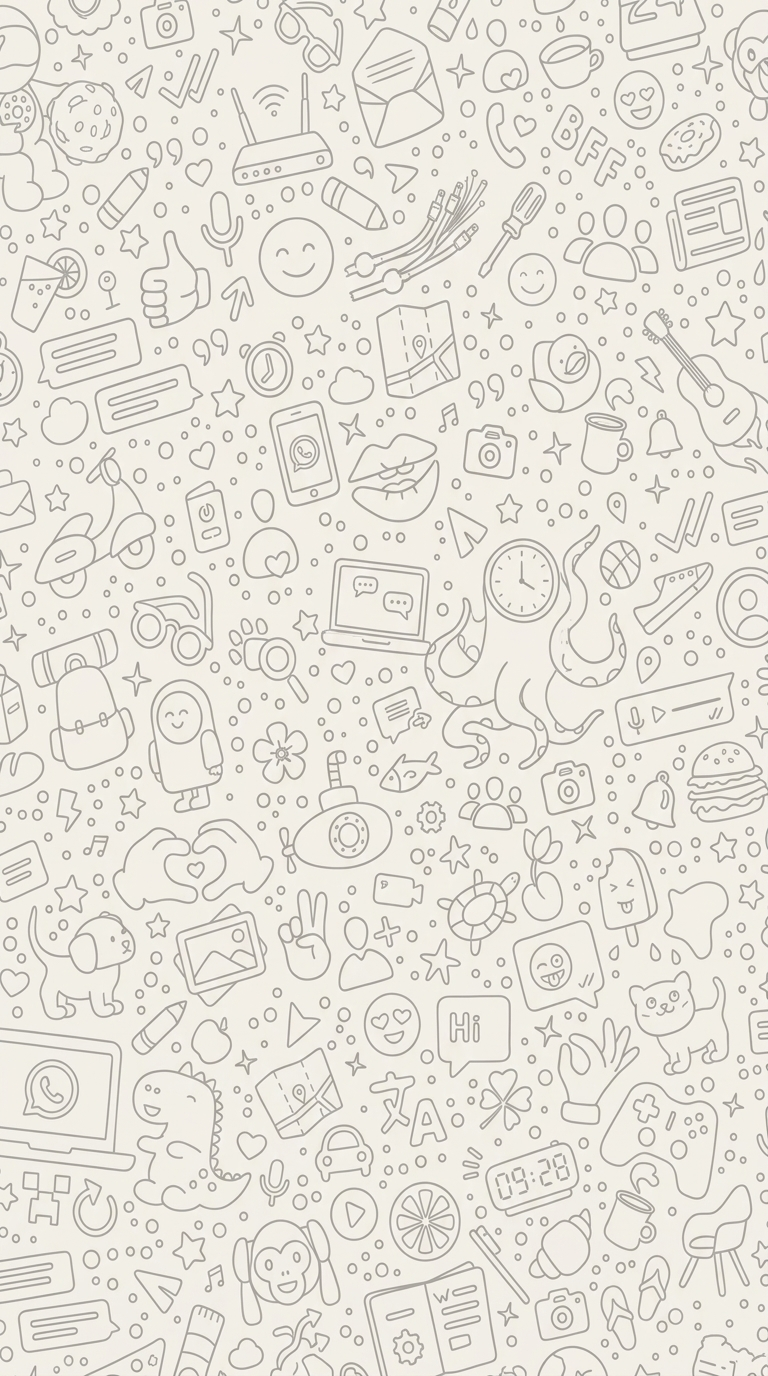
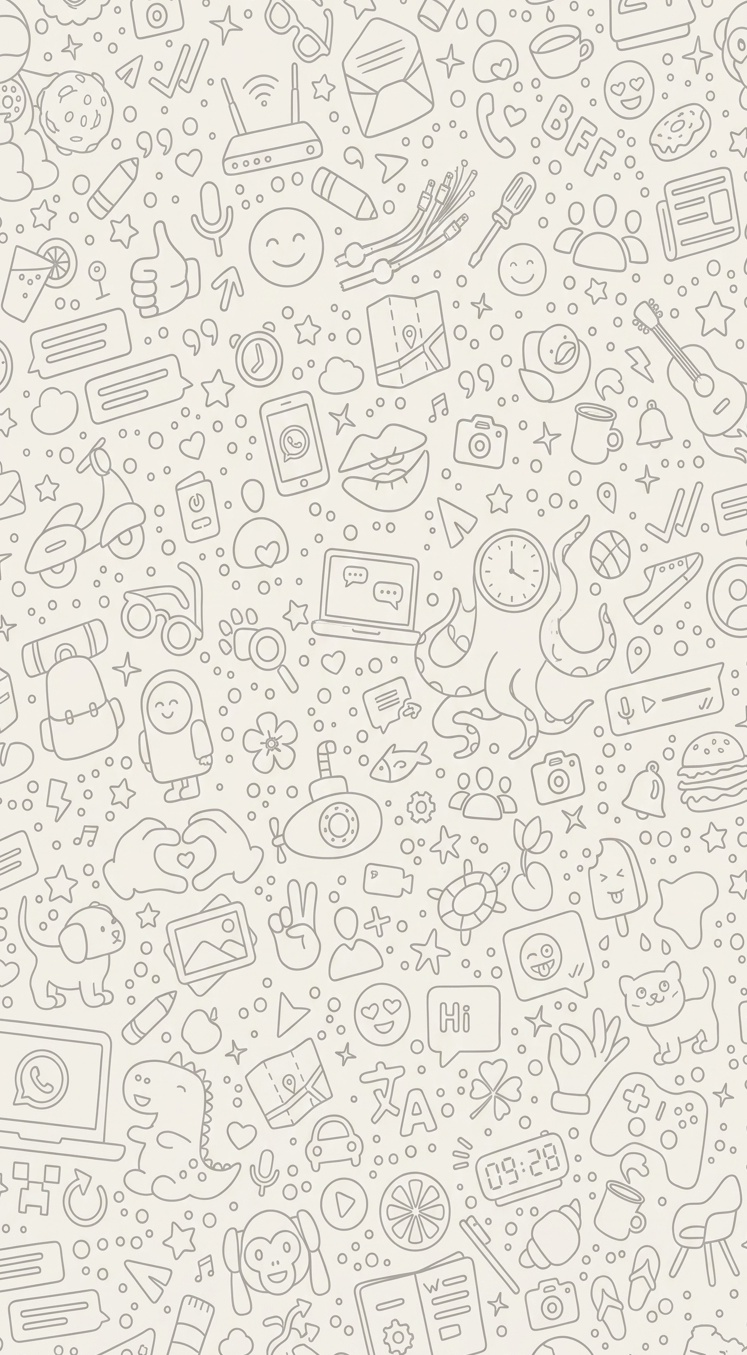
fix(chat): remove edge borders from doodle wallpaper and add asset cache-busting

Changed region(s): [[0.0, 0.0, 1.0, 1.0]]

diff --git a/resources/views/tiket/show.blade.php b/resources/views/tiket/show.blade.php
@@ -54,8 +54,8 @@
 
     .wa-chat-container {
         background-color: #f0f2f5;
-        background-image: url("{{ asset('assets/chat-bg-whatsapp.png') }}");
-        background-size: 400px auto;
+        background-image: url("{{ asset('assets/chat-bg-whatsapp.png') }}?v={{ @filemtime(public_path('assets/chat-bg-whatsapp.png')) ?: time() }}");
+        background-size: 380px auto;
         background-repeat: repeat;
         background-attachment: local;
         border-radius: var(--neu-radius, 18px);
@@ -91,8 +91,8 @@
         flex-direction: column !important;
         overflow: hidden !important;
         background-color: #f0f2f5 !important;
-        background-image: url("{{ asset('assets/chat-bg-whatsapp.png') }}") !important;
-        background-size: 400px auto !important;
+        background-image: url("{{ asset('assets/chat-bg-whatsapp.png') }}?v={{ @filemtime(public_path('assets/chat-bg-whatsapp.png')) ?: time() }}") !important;
+        background-size: 380px auto !important;
         background-repeat: repeat !important;
         background-attachment: local !important;
         margin: 0 !important;
